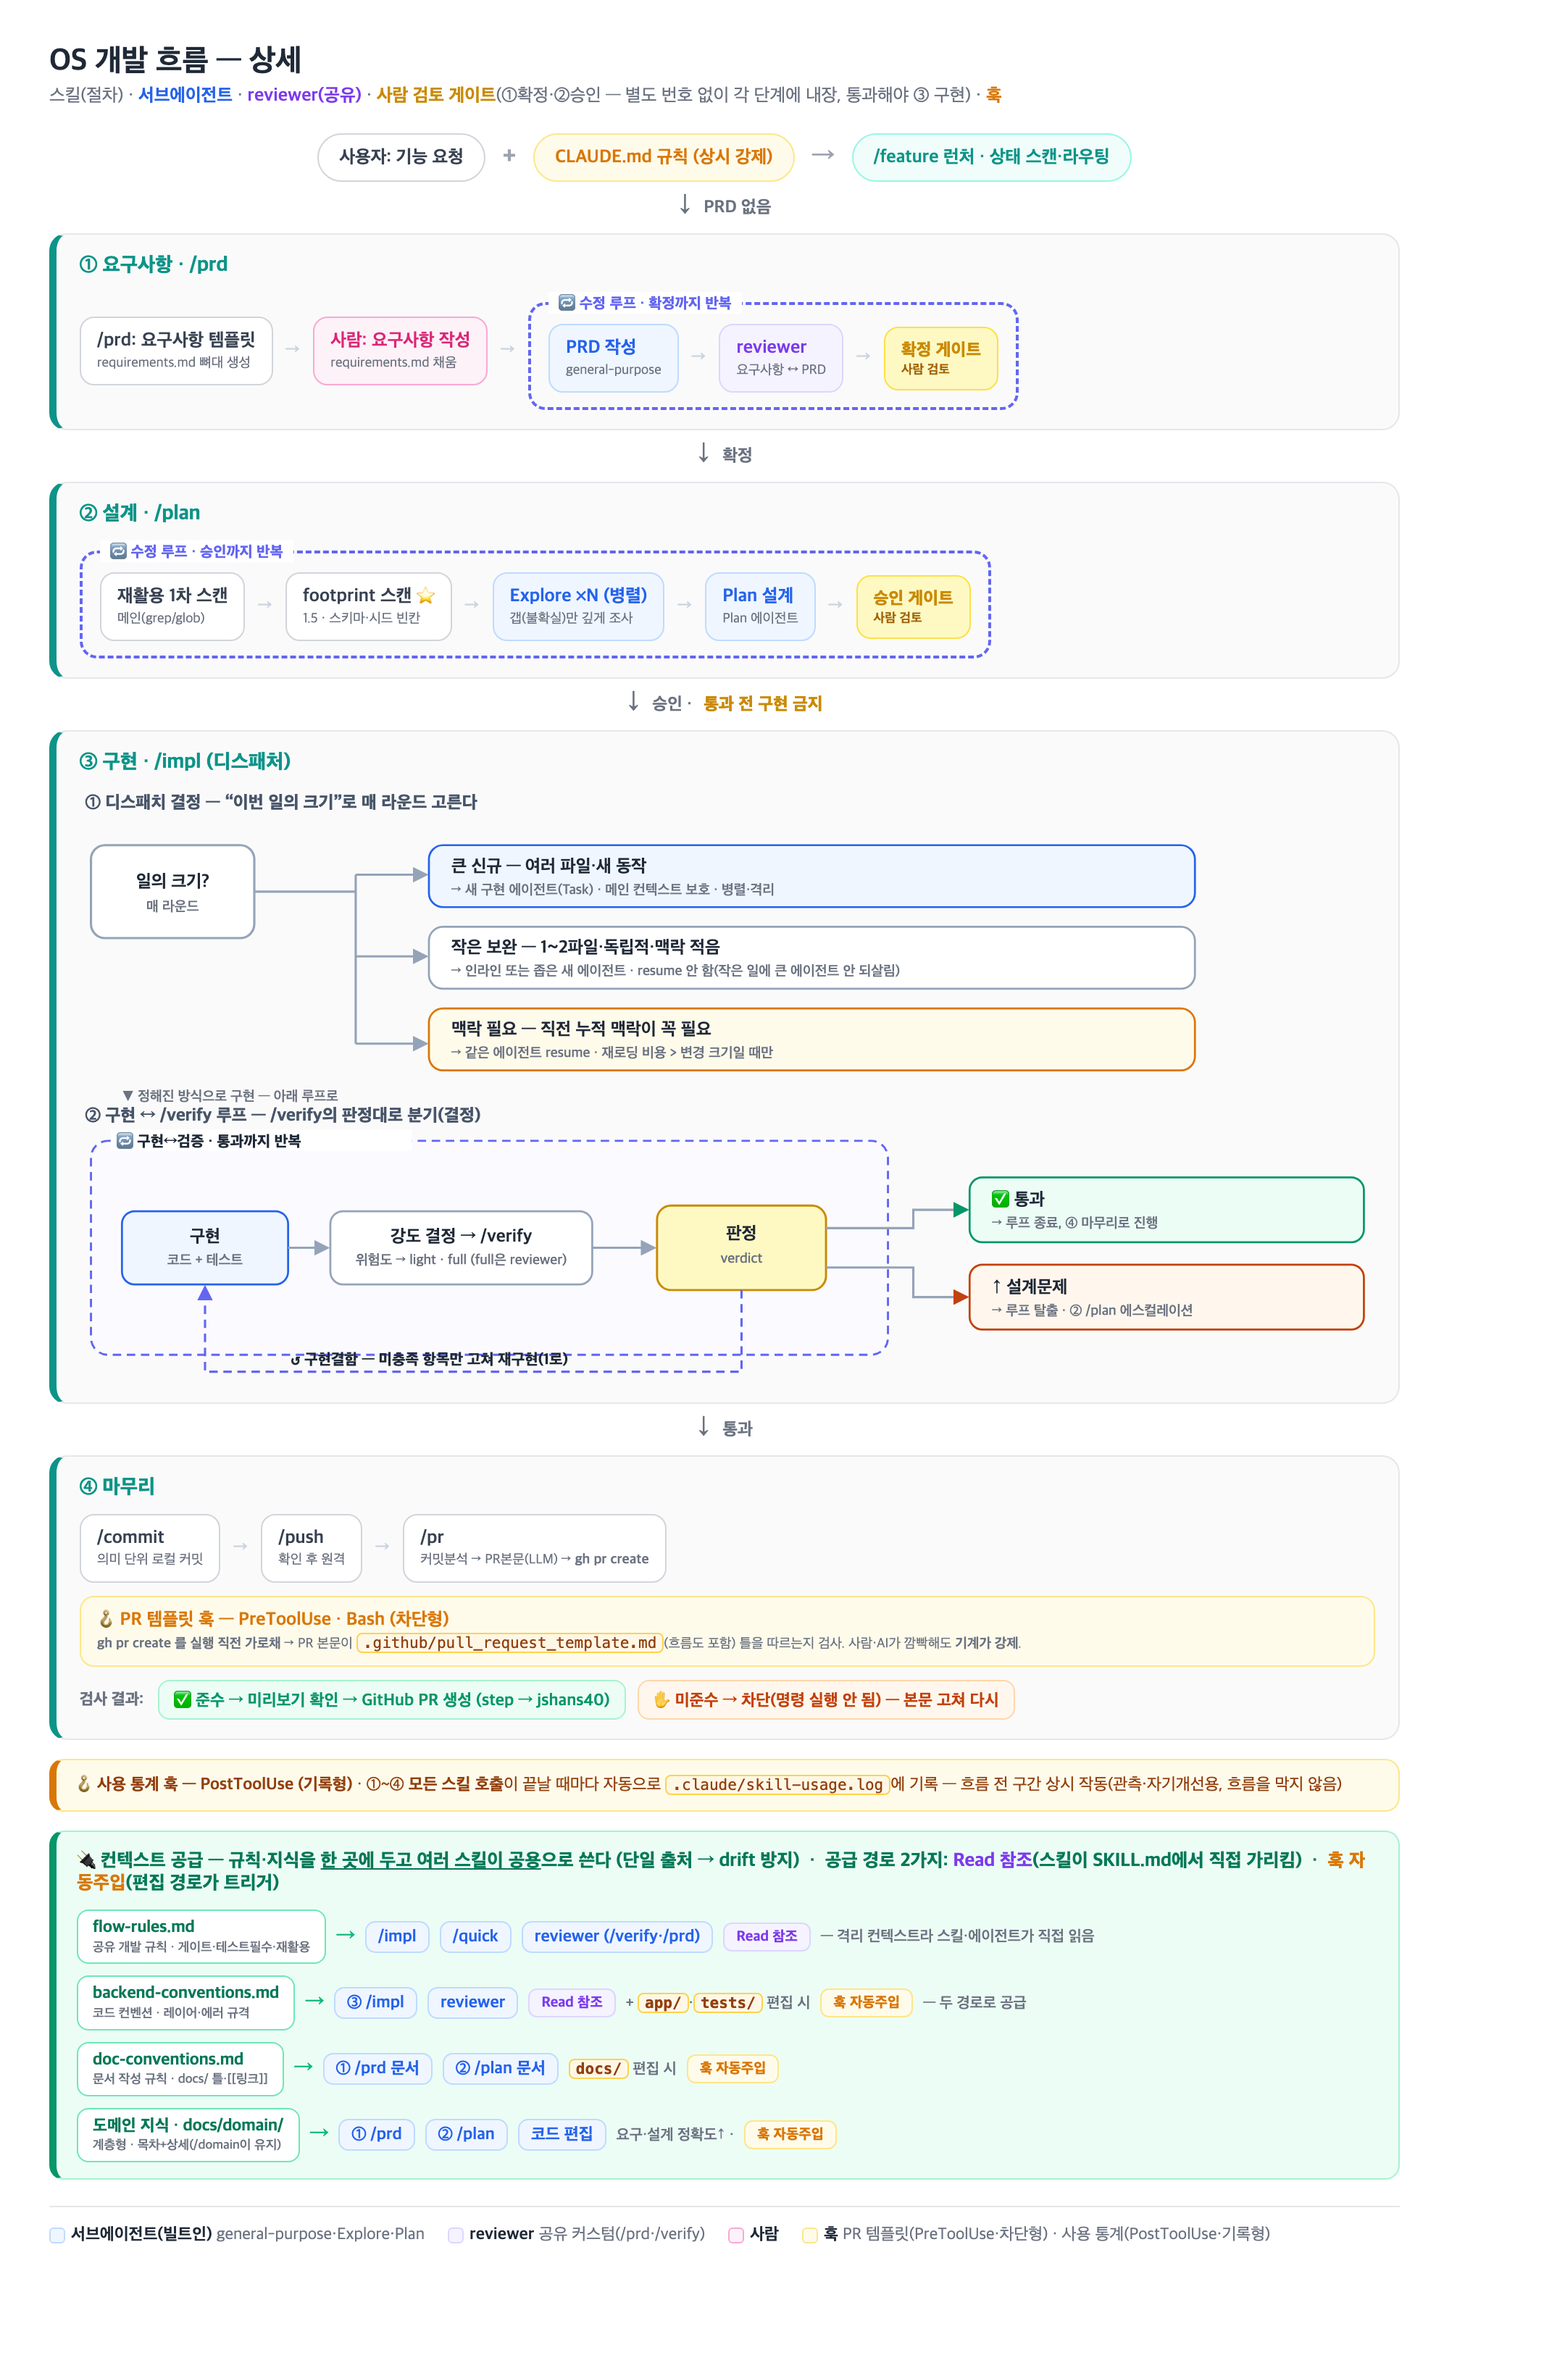
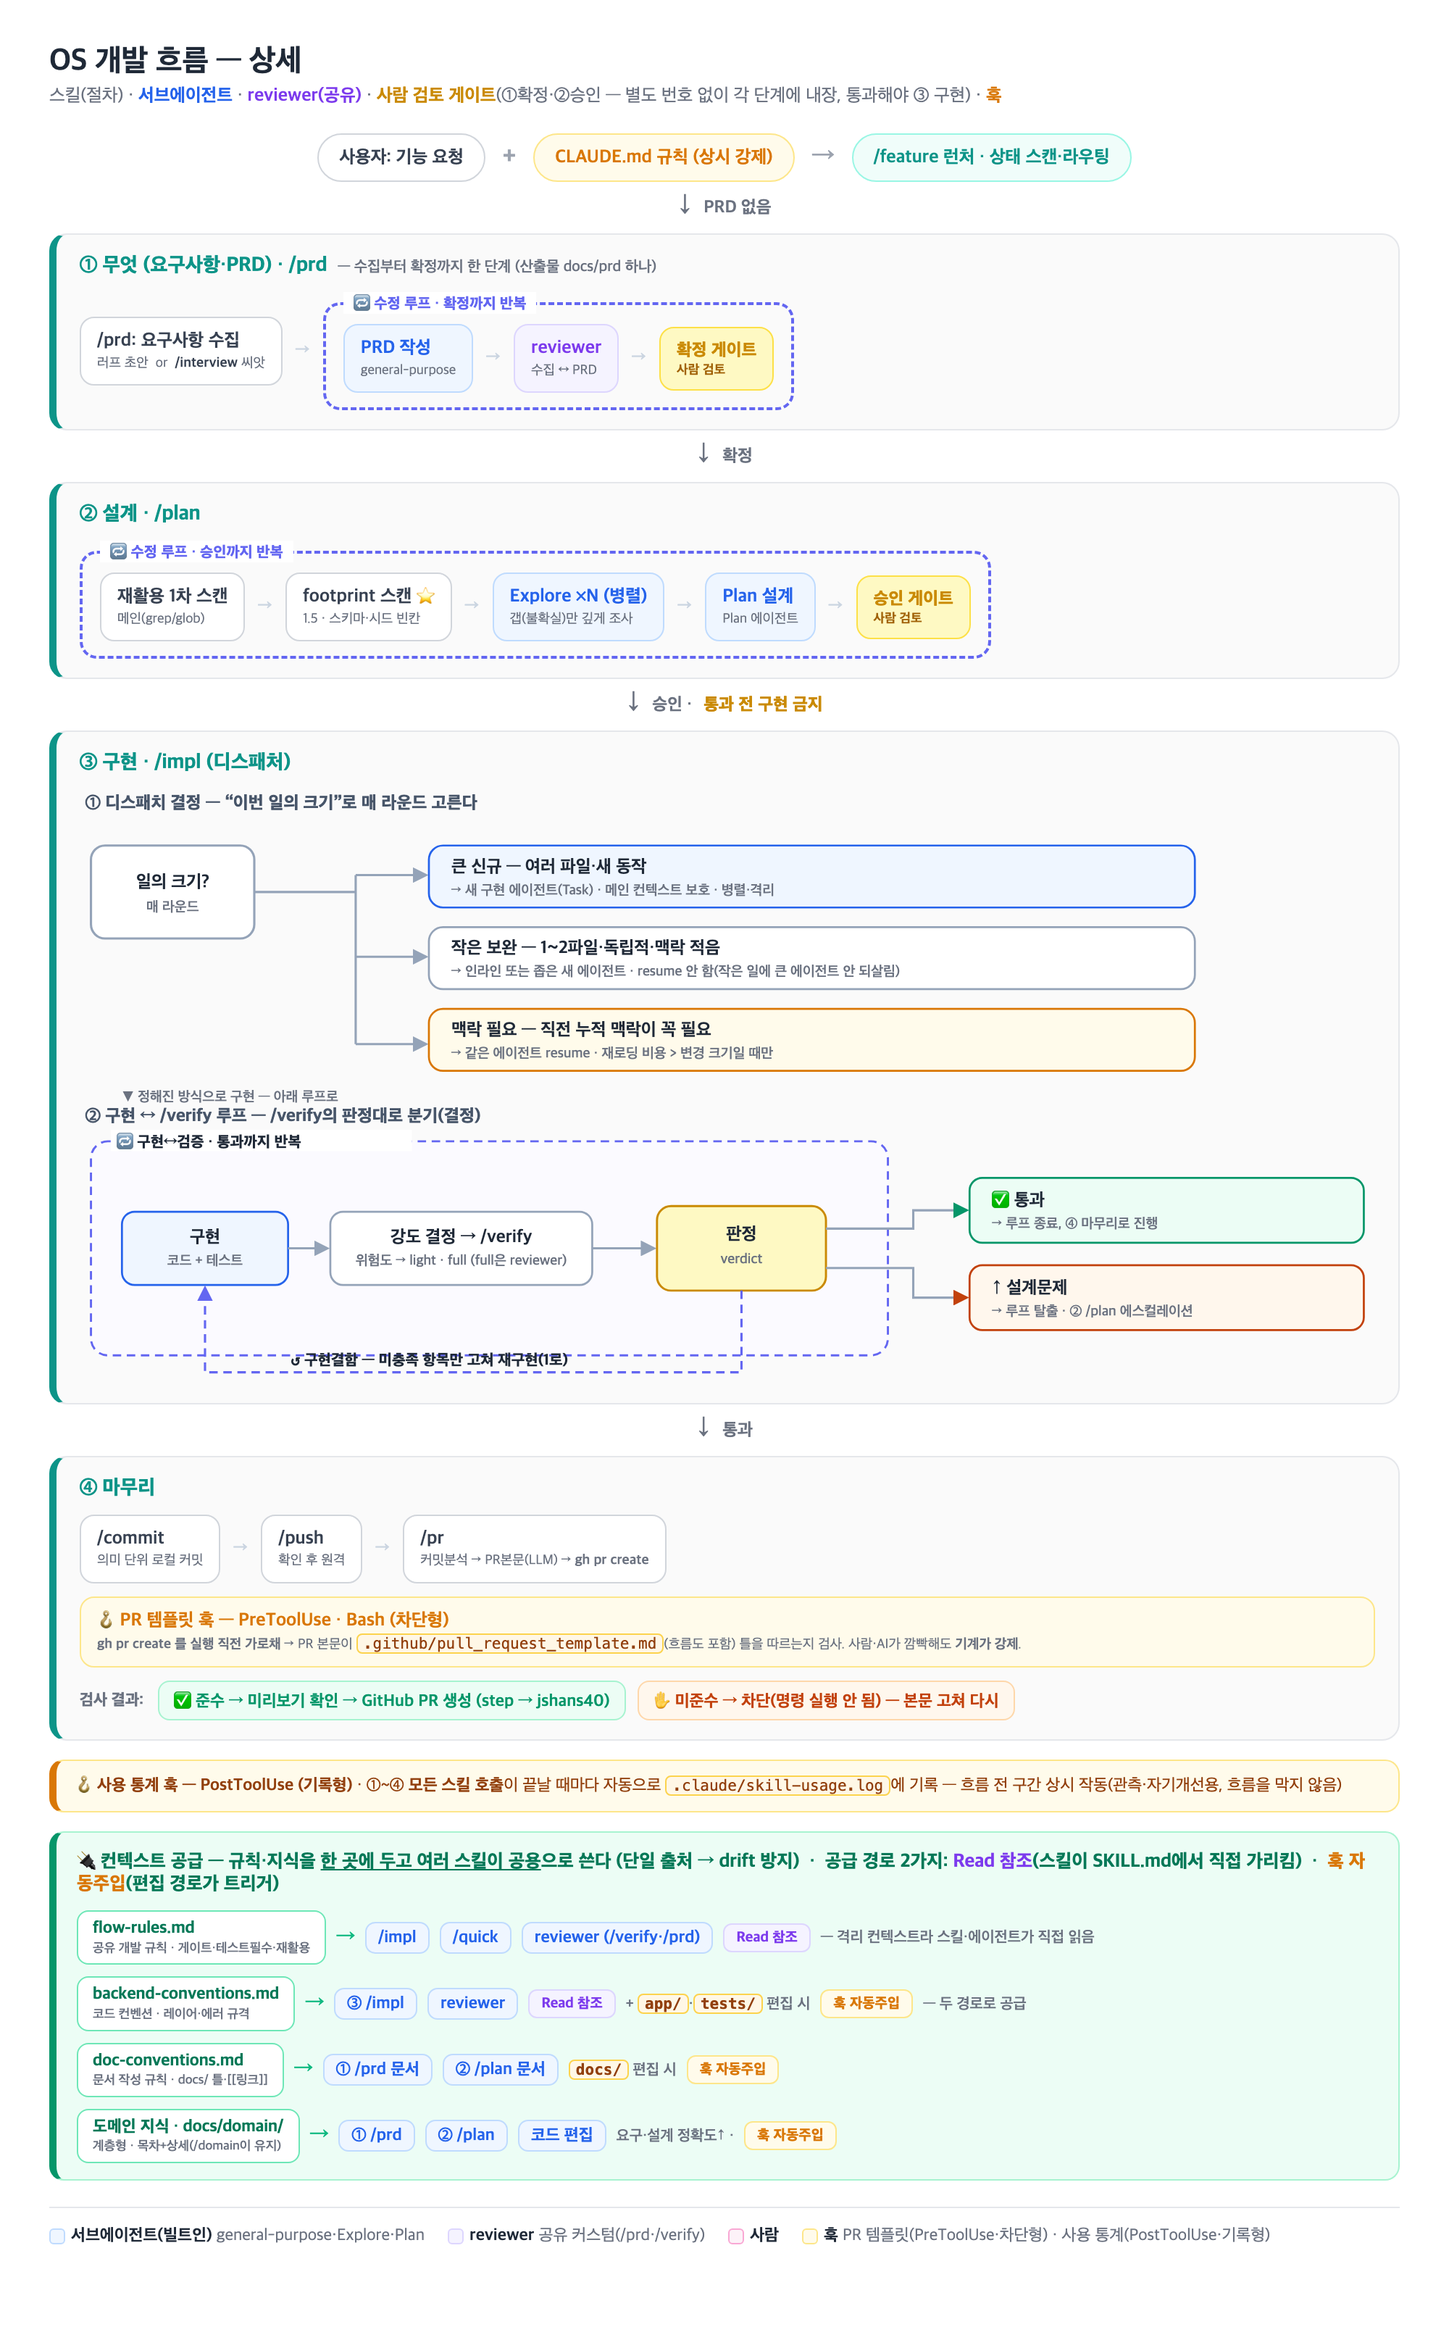
docs : os-flow 도식 ① 블록 갱신 — 요구사항+PRD 통합 반영
requirements.md 템플릿·사람작성 칩 제거 → '/prd 요구사항 수집(러프 초안
or /interview 씨앗) → PRD 작성 → reviewer → 확정' 한 단계로.

Changed region(s): [[0.031, 0.3117, 0.93, 0.9664], [0.031, 0.0, 0.775, 0.3117], [0.465, 0.5923, 0.527, 0.6235]]

diff --git a/docs/diagrams/os-flow.html b/docs/diagrams/os-flow.html
@@ -95,16 +95,14 @@
   <div class="down"><span class="a">↓</span> PRD 없음</div>
 
   <div class="stage">
-    <div class="head">① 요구사항 · /prd</div>
+    <div class="head">① 무엇 (요구사항·PRD) · /prd &nbsp;<span style="font-size:10.5px;font-weight:600;color:#6b7280;">— 수집부터 확정까지 한 단계 (산출물 docs/prd 하나)</span></div>
     <div class="row">
-      <div class="chip c-skill"><span class="t">/prd: 요구사항 템플릿</span><span class="k">requirements.md 뼈대 생성</span></div>
-      <span class="sep">→</span>
-      <div class="chip c-human"><span class="t">사람: 요구사항 작성</span><span class="k">requirements.md 채움</span></div>
+      <div class="chip c-skill"><span class="t">/prd: 요구사항 수집</span><span class="k">러프 초안 &nbsp;or&nbsp; <b style="color:#374151;">/interview</b> 씨앗</span></div>
       <span class="sep">→</span>
       <div class="loopbox" data-label="🔁 수정 루프 · 확정까지 반복">
         <div class="chip c-agent"><span class="t">PRD 작성</span><span class="k">general-purpose</span></div>
         <span class="sep">→</span>
-        <div class="chip c-custom"><span class="t">reviewer</span><span class="k">요구사항 ↔ PRD</span></div>
+        <div class="chip c-custom"><span class="t">reviewer</span><span class="k">수집 ↔ PRD</span></div>
         <span class="sep">→</span>
         <div class="gate">확정 게이트<span class="g3">사람 검토</span></div>
       </div>
